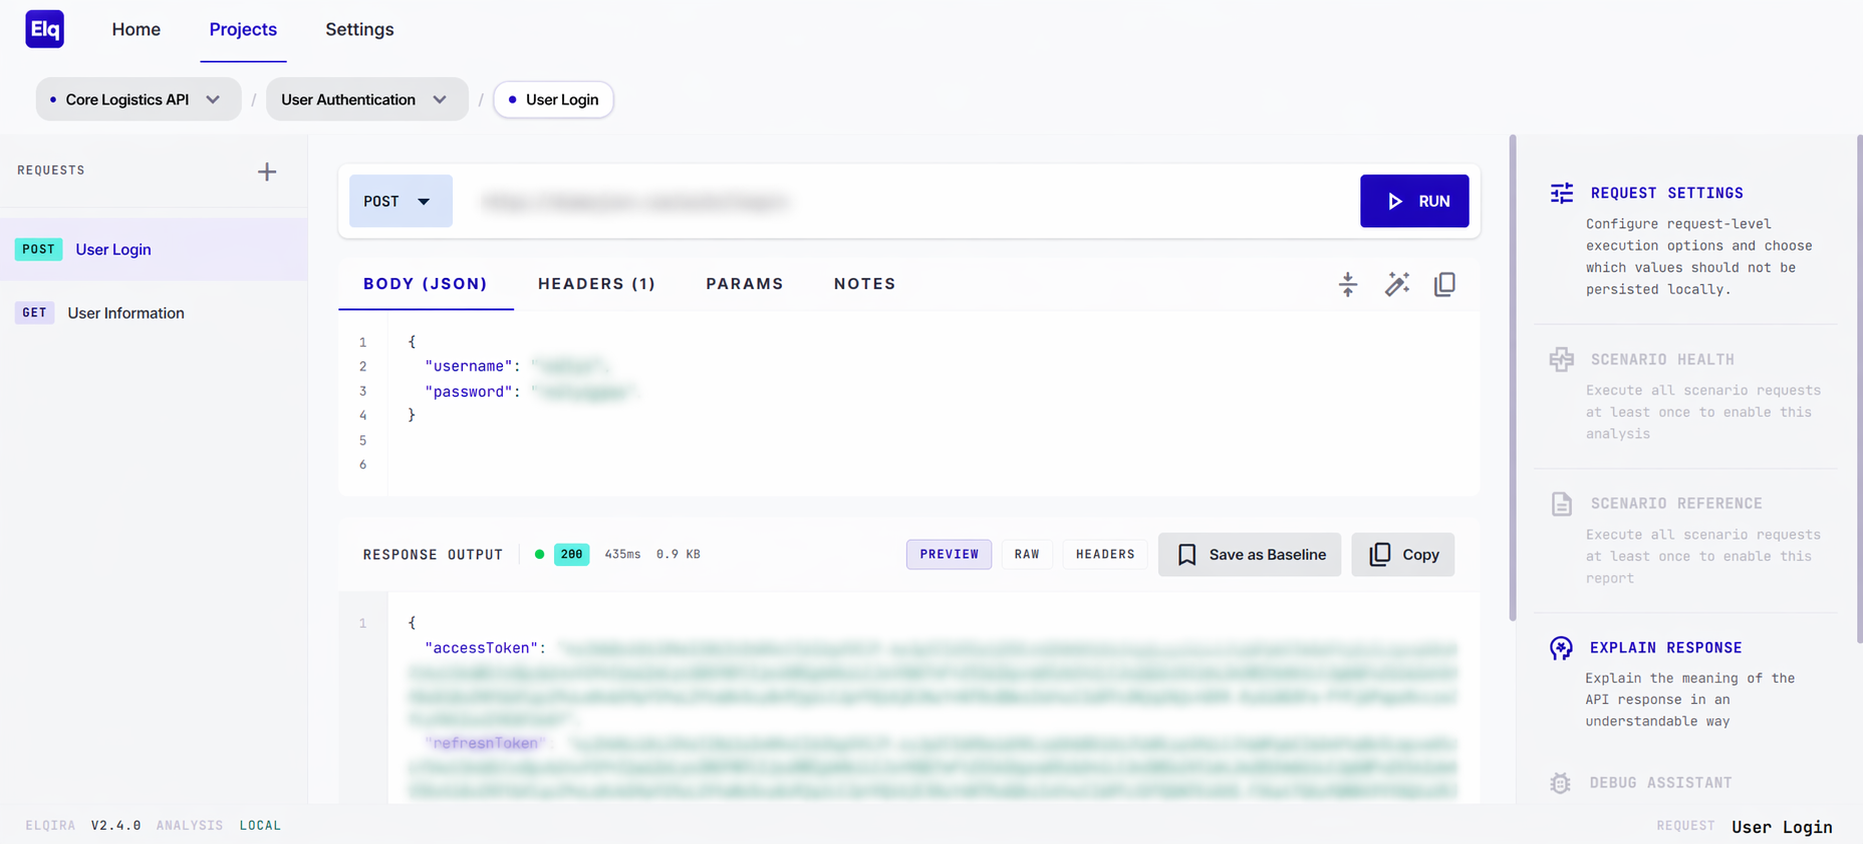
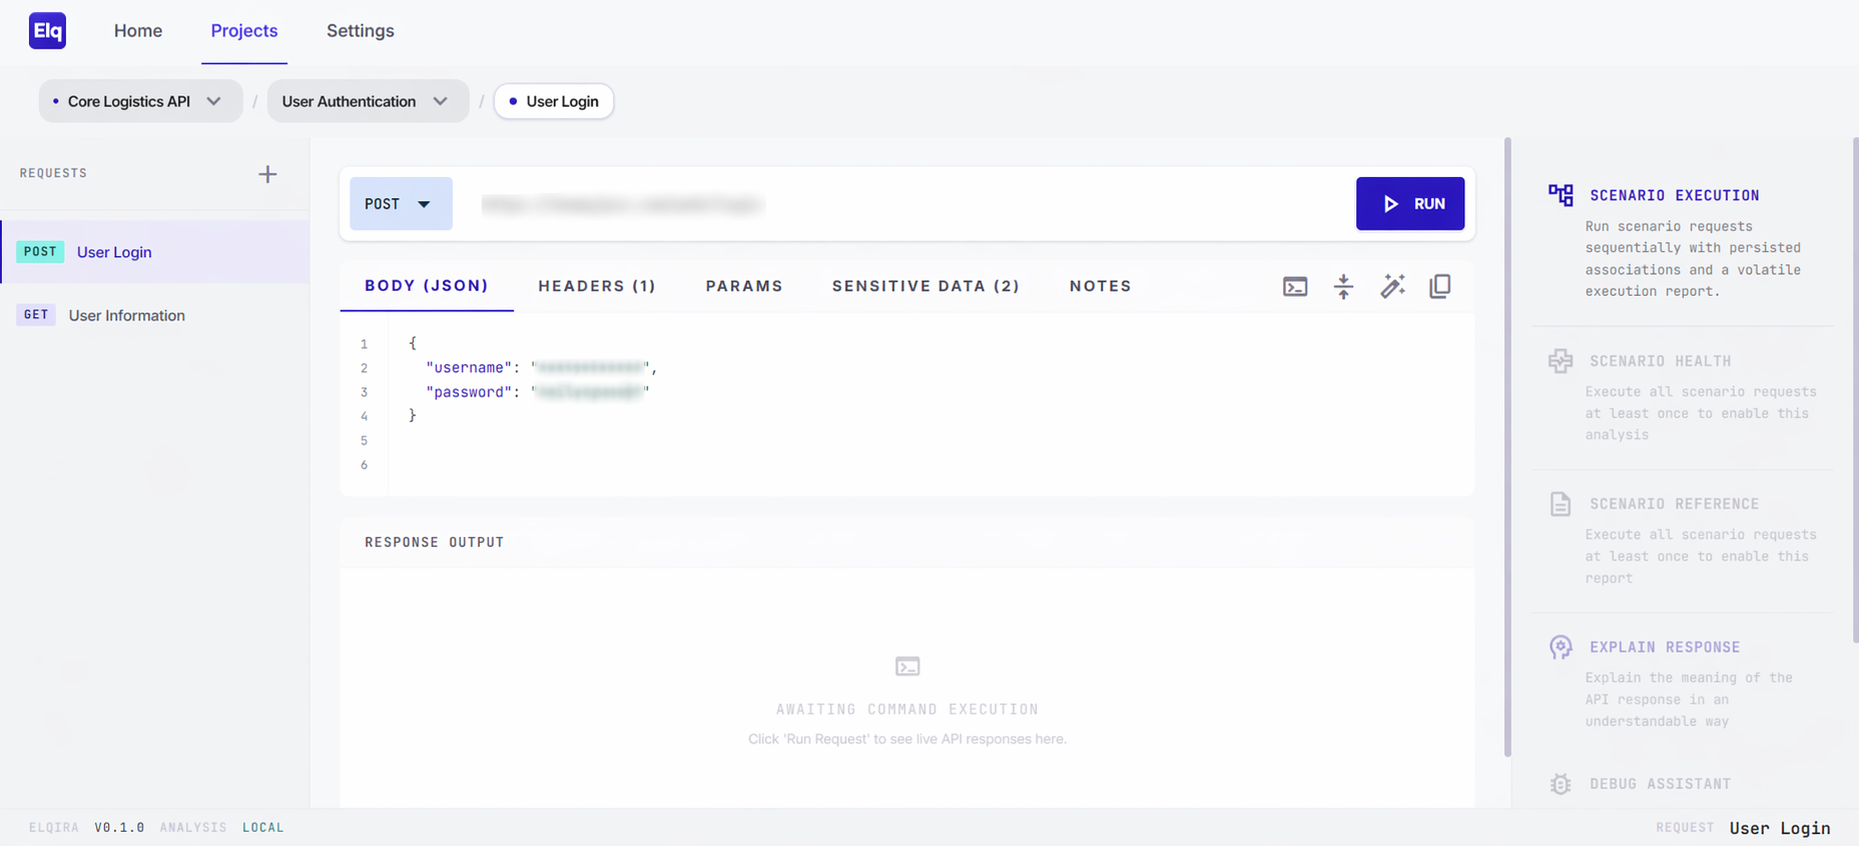
Refactor code structure for improved readability and maintainability

diff --git a/src/context/AppContext.tsx b/src/context/AppContext.tsx
@@ -40,13 +40,18 @@ interface AppState {
   reorderRequests: (orderedIds: string[]) => void;
   currentResponse: Response | null;
   setCurrentResponse: (r: Response | null) => void;
-  responseMap: Map<string, Response>;
-  setResponseForRequest: (requestId: string, response: Response) => void;
+  responseMap: Map<string, ScenarioResponseEntry>;
+  setResponseForRequest: (requestId: string, response: Response, requestSnapshot?: Request) => void;
   getScenarioResponses: () => Array<{ request: Request; response: Response }>;
   reloadAppData: () => void;
 }
 
 const AppContext = createContext<AppState | null>(null);
+
+type ScenarioResponseEntry = {
+  response: Response;
+  requestSnapshot?: Request;
+};
 
 function stripDraftFields(request: Request): Omit<Request, 'id' | 'isDraft'> {
   const { id, isDraft, ...payload } = request;
@@ -77,7 +82,7 @@ export function AppProvider({ children }: { children: React.ReactNode }) {
   const [draftRequest, setDraftRequest] = useState<Request | null>(null);
   const [currentRequest, setCurrentRequestState] = useState<Request | null>(null);
   const [currentResponse, setCurrentResponse] = useState<Response | null>(null);
-  const [responseMap, setResponseMap] = useState<Map<string, Response>>(new Map());
+  const [responseMap, setResponseMap] = useState<Map<string, ScenarioResponseEntry>>(new Map());
 
   // Derived lists — re-read from storage whenever a version changes
   const projects = React.useMemo(
@@ -179,7 +184,7 @@ export function AppProvider({ children }: { children: React.ReactNode }) {
   // --- Requests ---
   const setCurrentRequest = useCallback((r: Request | null) => {
     setCurrentRequestState(r);
-    setCurrentResponse(r ? responseMap.get(r.id) ?? null : null);
+    setCurrentResponse(r ? responseMap.get(r.id)?.response ?? null : null);
   }, [responseMap]);
 
   const createDraftRequest = useCallback((data: Omit<Request, 'id'>) => {
@@ -203,7 +208,7 @@ export function AppProvider({ children }: { children: React.ReactNode }) {
     setDraftRequest(null);
     setCurrentRequestState(saved);
     setCurrentResponse((prev) => {
-      const draftResponse = responseMap.get(currentRequest.id);
+      const draftResponse = responseMap.get(currentRequest.id)?.response;
       return draftResponse ?? prev;
     });
     setResponseMap((prev) => {
@@ -211,7 +216,14 @@ export function AppProvider({ children }: { children: React.ReactNode }) {
       const next = new Map(prev);
       const draftResponse = next.get(currentRequest.id);
       next.delete(currentRequest.id);
-      if (draftResponse) next.set(saved.id, draftResponse);
+      if (draftResponse) {
+        next.set(saved.id, {
+          ...draftResponse,
+          requestSnapshot: draftResponse.requestSnapshot
+            ? { ...draftResponse.requestSnapshot, id: saved.id, isDraft: false }
+            : undefined,
+        });
+      }
       return next;
     });
   }, [currentRequest, responseMap]);
@@ -287,10 +299,10 @@ export function AppProvider({ children }: { children: React.ReactNode }) {
   }, [currentScenario]);
 
   // --- Response map (in-memory, per-scenario) ---
-  const setResponseForRequest = useCallback((requestId: string, response: Response) => {
+  const setResponseForRequest = useCallback((requestId: string, response: Response, requestSnapshot?: Request) => {
     setResponseMap((prev) => {
       const next = new Map(prev);
-      next.set(requestId, response);
+      next.set(requestId, { response, requestSnapshot });
       return next;
     });
   }, []);
@@ -298,8 +310,8 @@ export function AppProvider({ children }: { children: React.ReactNode }) {
   const getScenarioResponses = useCallback((): Array<{ request: Request; response: Response }> => {
     const result: Array<{ request: Request; response: Response }> = [];
     for (const req of requests) {
-      const resp = responseMap.get(req.id);
-      if (resp) result.push({ request: req, response: resp });
+      const entry = responseMap.get(req.id);
+      if (entry) result.push({ request: entry.requestSnapshot ?? req, response: entry.response });
     }
     return result;
   }, [requests, responseMap]);

diff --git a/src/features/requests/scenarioExecution.ts b/src/features/requests/scenarioExecution.ts
@@ -49,7 +49,7 @@ interface ExecuteScenarioOptions {
   scenarioLinks: ScenarioExecutionLink[];
   settings: AppSettings;
   onStepUpdate?: (steps: ScenarioExecutionStepResult[]) => void;
-  onRequestCompleted?: (requestId: string, response: Response) => void;
+  onRequestCompleted?: (requestId: string, response: Response, requestSnapshot: Request) => void;
 }
 
 type RuntimeVariable = {
@@ -470,6 +470,7 @@ export async function executeScenarioRequests({
 
   for (let index = 0; index < orderedRequests.length; index += 1) {
     const request = orderedRequests[index];
+    let executedRequest = request;
     let appliedBindings: ScenarioExecutionAppliedBinding[] = [];
     steps[index] = { ...steps[index], status: 'running' };
     onStepUpdate?.(steps.map(cloneStep));
@@ -484,6 +485,7 @@ export async function executeScenarioRequests({
         requestIndexById,
       });
       const resolvedRequest = resolved.request;
+      executedRequest = resolvedRequest;
       appliedBindings = resolved.appliedBindings;
       const timeoutSeconds = resolvedRequest.timeoutMs ?? settings.requestTimeoutMs;
       const response = await executeRequest(
@@ -492,7 +494,7 @@ export async function executeScenarioRequests({
       );
 
       responsesByRequestId.set(request.id, response);
-      onRequestCompleted?.(request.id, response);
+      onRequestCompleted?.(request.id, response, resolvedRequest);
 
       steps[index] = {
         ...steps[index],
@@ -506,7 +508,7 @@ export async function executeScenarioRequests({
       };
     } catch (error) {
       const failedResponse = buildFailedResponse(error);
-      onRequestCompleted?.(request.id, failedResponse);
+      onRequestCompleted?.(request.id, failedResponse, executedRequest);
 
       steps[index] = {
         ...steps[index],

diff --git a/src/features/requests/RequestBuilder.tsx b/src/features/requests/RequestBuilder.tsx
@@ -622,7 +622,7 @@ export function RequestBuilder({ onToolExpansionChange }: RequestBuilderProps) {
 
       const response = await executeRequest(req, resolvedTimeoutMs ? resolvedTimeoutMs * 1000 : undefined);
       setCurrentResponse(response);
-      setResponseForRequest(currentRequest.id, response);
+      setResponseForRequest(currentRequest.id, response, req);
       if (activeTool === 'explain') {
         setExplainInsight(null);
         void handleExplainResponse(response);
@@ -879,8 +879,8 @@ export function RequestBuilder({ onToolExpansionChange }: RequestBuilderProps) {
         scenarioLinks: currentScenario.executionLinks ?? [],
         settings,
         onStepUpdate: setScenarioExecutionSteps,
-        onRequestCompleted: (requestId, response) => {
-          setResponseForRequest(requestId, response);
+        onRequestCompleted: (requestId, response, requestSnapshot) => {
+          setResponseForRequest(requestId, response, requestSnapshot);
           setCurrentResponse(response);
         },
       });

diff --git a/README.md b/README.md
@@ -45,18 +45,25 @@ Elqira stores workspace data locally and does not send request or response data 
 
 Current analysis features include:
 
+- **Scenario Execution**: executes a full scenario as a connected request flow, letting you define persisted associations between requests so values extracted from earlier responses can be injected into later steps. During a run, Elqira shows the scenario progressing step by step and generates a volatile execution report with overall outcome, timings, and per-step results for that flow.
+
+![Elqira scenario execution](./docs/screens/scenario-execution.png)
+
 - **Scenario Health**: analyzes all executed requests in a scenario together and produces a structured health report that includes:
   - API consistency checks to detect schema mismatches, naming inconsistencies, or structural drift across responses
   - error pattern analysis to surface recurring failures such as `4xx`, `5xx`, timeouts, or network-level issues
   - implicit dependency detection to identify hidden data flows between requests, such as IDs or tokens generated by one call and required by another
   - latency profile insights showing average timing, slow requests, and the main bottleneck in the scenario flow
+
+![Elqira scenario health](./docs/screens/scenario-health.png)
+
 - **Scenario Reference**: generates a printable scenario reference from executed requests, inferring request and response structure without exposing runtime payload values. It is useful for quickly documenting endpoints, headers, query params, body schema, and response schema for an entire scenario.
 - **Explain Response**: summarizes the meaning of the current response, highlights key fields, and classifies transport and latency signals.
 - **Debug Assistant**: analyzes failed responses and proposes likely causes and practical fixes.
 - **Response Comparison**: compares a current response with a saved baseline and highlights structural or behavioral differences.
 These features work without external AI configuration.
 
-![Elqira scenario health](./docs/screens/scenario-health.png)
+
 
 ## Project Status
 
@@ -92,13 +99,13 @@ For this reason, **Elqira should not be considered a secure vault for secrets**.
 
 At the moment, Elqira persists request workspace data locally, but it does not persist full response payloads as durable workspace records. Response content is available in the current session for inspection and analysis, but it should still be treated as sensitive while the app is open.
 
-### Avoid persisting sensitive values with Request Sensitive
+### Avoid persisting sensitive values with Sensitive Data
 
-If a request contains sensitive data, you should use **Request Settings** and configure **Request Sensitive** to prevent those values from being stored locally.
+If a request contains sensitive data, you should use the **Sensitive Data** tab in the request workspace to prevent those values from being stored locally.
 
-Elqira includes **Request Sensitive** inside **Request Settings** to help you avoid storing selected sensitive values in local IndexedDB persistence.
+Elqira includes the **Sensitive Data** tab to help you avoid storing selected sensitive values in local IndexedDB persistence.
 
-Inside the request workspace, open **Request Settings** from the contextual tools panel, then use **Request Sensitive** to mark the fields that should be treated as sensitive.
+Inside the request workspace, open the **Sensitive Data** tab and mark the fields that should be treated as sensitive.
 
 The feature currently works for:
 
@@ -106,7 +113,7 @@ The feature currently works for:
 - request headers
 - query parameters, including values reflected in the request URL
 
-![Elqira scenario health](./docs/screens/sensitive-fields.png)
+![Elqira scenario health](./docs/screens/sensitive-data.png)
 
 When a field is marked as sensitive:
 
@@ -120,7 +127,7 @@ Users are strongly encouraged to:
 
 - avoid storing production credentials or long-lived tokens  
 - use temporary or test credentials whenever possible  
-- use **Request Settings** and configure **Request Sensitive** for any header, body field, or query parameter that contains secrets or confidential values  
+- use the **Sensitive Data** tab for any header, body field, or query parameter that contains secrets or confidential values  
 - review exported JSON files before sharing  
 
 ## Future Development
